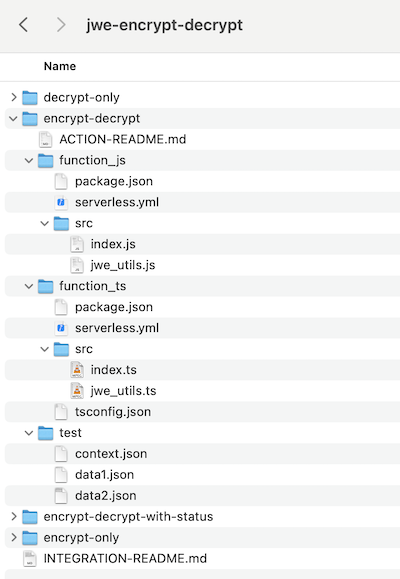
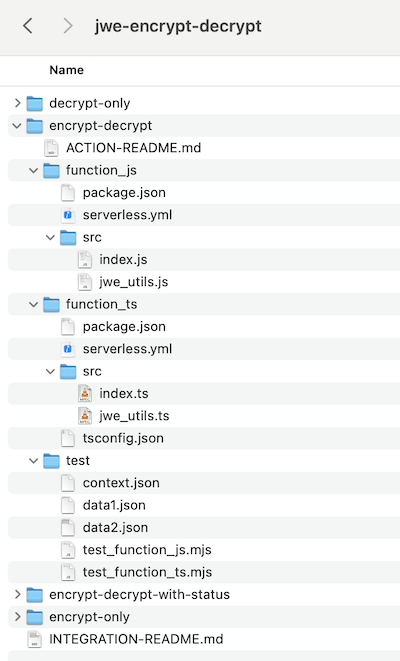
Genesys Functions: Alternative to Serverless Framework

diff --git a/source/2025-01-14-genesys-functions/index.md b/source/2025-01-14-genesys-functions/index.md
@@ -187,6 +187,8 @@ All functions must conform to the AWS Lambda interface requirements for serverle
 
 The resulting function will be a set of source files in a directory structure along with dependencies. The function file directory must be packaged into a ZIP file that will allow it to be deployed and executed. The package will have a module and function that is the handler for the invocation.
 
+The AWS Lambda's Developer Guide provides additional information on [Creating a .zip deployment package with dependencies](https://docs.aws.amazon.com/lambda/latest/dg/nodejs-package.html#nodejs-package-create-dependencies).
+
 ### Function Restrictions
 
 **The implementation of the environment used to execute the functions impose restriction on the operation of the functions.**
@@ -556,28 +558,79 @@ Let's now have a look at the function code we will upload for this Data Action, 
 Developping your function code in javascript or in typescript, is up to you. Your preference.
 
 #### Example package.json
-In order to package the code into a zip file that fits AWS lambda needs, we are leveraging the [Serverless Framework (3rd party)](https://www.serverless.com/framework/docs/providers/aws/guide/intro/).  
-It is included as a dev dependency in the package.json file. If you prefer to install Serverless Framework globally, it is of course also possible. Again, your preference.
+The package.json file contains the definition of the dependencies and devDependencies necessary to build and to run the project's example code.
+
+Note that **devDependencies (node modules) do not need to be included in the function's zip package that will be uploaded to Genesys Cloud**. They are not necessary at runtime (of the AWS Lambda). You can use `npm install --omit=dev` before creating the zip package of the function, to only keep node modules defined as dependencies.
+
+Similarly, when working with a typescript project, you only need to upload the built javascript source code. The `build` script alias included in the package.json file will transpile typescript to javascript using `tsc`.
+
+#### Method 1 - Build your code, Create Package and Test with zip command
+The AWS Lambda's Developer Guide provides additional information on [Creating a .zip deployment package with dependencies](https://docs.aws.amazon.com/lambda/latest/dg/nodejs-package.html#nodejs-package-create-dependencies).
+
+The javascript source and the necessary node modules (dependencies) will be packaged using the `zip` command (that should be available on your Linux, Mac or Windows computer).
+* `zip -r function-gc-active-conversations-action.zip src/ node_modules/`
+* `npm install --omit=dev && zip -r function-gc-active-conversations-action.zip src/ node_modules/ && npm install` (`npm install --omit=dev` is run first to only keep dependencies and to remove devDependencies)
+
+In order to test the function handler with data, some javascript files have been added in the different `test` subdirectories to facilitate this testing (test_function_js.mjs, test_function_ts.mjs, ...).
+* `node ../test/test_function_js.mjs ../test/data1.json ../test/context.json`
+* `node ../test/test_function_ts.mjs ../test/data1.json ../test/context.json`
+
+_**Example Steps**_
+
+Steps for *function_js*:
+* Make sure that you are using NodeJS 20 runtime (the code was built with this runtime version)
+* Navigate to the *function_js* directory
+* Type: `npm install`
+* To package the code and create the zip, type: `npm run zip` or `npm run zipnodev`
+Both aliases will invoke the zip command to package the source directory and the node modules directory (`zip -r function-gc-active-conversations-action.zip src/ node_modules/`).  
+If you have devDependencies defined in your package.json file, you can use the `npm run zipnodev`. This will invoke `npm install --omit=dev` again prior to the `zip` command (to only keep node module dependencies).
+
+Steps for *function_ts*:
+* Make sure that you are using NodeJS 20 runtime (the code was built with this runtime version)
+* Navigate to the *function_ts* directory
+* Type: `npm install`
+* To build: `npm run build`
+* To package the code and create the zip, type: `npm run zip` or `npm run zipnodev`
+Both aliases will invoke the zip command to package the source directory and the node modules directory (`zip -r function-gc-active-conversations-action.zip dist/ node_modules/`).  
+If you have devDependencies defined in your package.json file, you can use the `npm run zipnodev`. This will invoke `npm install --omit=dev` again prior to the `zip` command (to only keep node module dependencies).
+
+This will create a zip and will store it in the project's directory. This is the file you will need to upload in Genesys Cloud.
+
+_**Testing function locally**_
+
+In order to test the function handler with sample data, some javascript files have been added in the different `test` subdirectories to facilitate this testing (test_function_js.mjs, test_function_ts.mjs, ...).  
+Testing locally will be much easier to troubleshoot errors in the function code.
+
+The test javascript files take two input parameters: a sample **Event** and a sample **Context** for the function (you can have a look at the package.json to see how the command is invoked).  
+The Json files which are included in the `test` subdirectory contain sample values for **Context** and **Event**.  
+I have included commands in the package.json so you can test your function with the *context.json* and *data.json*.
+
+With the current JWE Encrypt and Decrypt example, I have defined "aliases" in the package.json so you can run:
+* To Encrypt: `npm run localtest1` (an alias to invoke: *node ../test/test_function_js.mjs ../test/data1.json ../test/context.json*)
+* To Decrypt: `npm run localtest2` (an alias to invoke: *node ../test/test_function_js.mjs ../test/data2.json ../test/context.json*)
+
+#### Method 2 - Build your code, Create Package and Test with Serverless Framework
+In order to package the code into a zip file that fits AWS lambda needs, you can also leverage the [Serverless Framework (3rd party)](https://www.serverless.com/framework/docs/providers/aws/guide/intro/).  
+
+:::{"alert":"warning","autoCollapse":false}
+The Serverless Framework CLI V3 did not require any account or subscription but it is now EOL (End of Life). [The Serverless Framework CLI V.4+ is free, except for organizations earning over $2 million annually, which require a paid subscription](https://www.serverless.com/pricing).  
+If you are still using v3 of the Serverless Framework, or if you have a free or a paid subscription to use v4, you can follow the steps below.
+:::
+
+You can install it as a dev dependency in the package.json file or you install Serverless Framework globally. Again, your preference.
 
 A couple of npm commands are also included in the package.json file, to create the package (the zip) or to test your code.  
 `sls package` and `sls invoke local` are commands related to the Serverless Framework.
 
-In package.json:
-```json
-  "devDependencies": {
-    "serverless": "^3.39.0"
-  }
-```
-
 Installing Serverless globally:
-`npm install -g serverless@3`
+`npm install -g serverless`
 
 :::{"alert":"info","autoCollapse":false}
 Don't be worried about the Serverless Framework if you are not familiar with it. We are only using it as a tool to create the zip package, that AWS and the Genesys Cloud Functions expect. If you already know how to create such zip for AWS Lambda, without using the Serverless Framework, you can continue to use your preferred method.  
 The Serverless Framework is not used inside the Genesys Cloud Function code. This is why you do not need to know a lot about it - only the fact that `sls package` and `sls invoke local` are commands you can use to create the package or test the function locally (given that you have created a serverless.yml file which is leveraged by the Serverless Framework).
 :::
 
-#### Example serverless.yml
+_**Example serverless.yml**_
 The serverless.yml file is necessary for the Serverless Framework package process.  
 These settings are not leveraged on Genesys Cloud side (you will define them later through the Genesys Desktop Admin UI) but are necessary to create the package. They are also of use when testing the function code locally using the Serverless Framework (`sls invoke local`).
 
@@ -601,13 +654,13 @@ functions:
     runtime: nodejs20.x
 ```
 
-#### Example Steps
+_**Example Steps**_
 
 Steps for *function_js*:
 * Make sure that you are using NodeJS 20 runtime (the code was built with this runtime version)
 * Navigate to the *function_js* directory
 * Type: `npm install`
-* To package the code and create the zip, type: `npm run package`
+* To package the code and create the zip, type: `npm run slspackage`
 This will invoke `sls package`as defined in my package.json file.
 
 Steps for *function_ts*:
@@ -615,13 +668,13 @@ Steps for *function_ts*:
 * Navigate to the *function_ts* directory
 * Type: `npm install`
 * To build: `npm run build`
-* To package the code and create the zip, type: `npm run package`
+* To package the code and create the zip, type: `npm run slspackage`
 This will invoke `sls package`as defined in my package.json file.
 
 Serverless Framework will create a zip and will store it in a `.serverless` subdirectory. This is the file you will need to upload in Genesys Cloud.  
 On MAC ".serverless" might will be a hidden directory, use "ls -al" to see in terminal, or (shift-cmd-period) to see in finder.
 
-#### Testing function locally with Serverless Framework
+_**Testing function locally with Serverless Framework**_
 
 The Serverless Framework has a `sls invoke local` command, allowing to test your function locally (on your computer), before you create the package and upload it. Testing locally will be much easier to troubleshoot errors in the function code.
 
@@ -630,8 +683,8 @@ The Json files which are included in the `test` subdirectory contain sample valu
 I have included commands in the package.json so you can test your function with the *context.json* and *data.json*.
 
 With the current JWE Encrypt and Decrypt example, I have defined "aliases" in the package.json so you can run:
-* To Encrypt: `npm run localtest1` (an alias to invoke: *sls invoke local --function echo --path ../test/data1.json --contextPath ../test/context.json*)
-* To Decrypt: `npm run localtest2` (an alias to invoke: *sls invoke local --function echo --path ../test/data2.json --contextPath ../test/context.json*)
+* To Encrypt: `npm run slslocaltest1` (an alias to invoke: *sls invoke local --function echo --path ../test/data1.json --contextPath ../test/context.json*)
+* To Decrypt: `npm run slslocaltest2` (an alias to invoke: *sls invoke local --function echo --path ../test/data2.json --contextPath ../test/context.json*)
 
 ### Explaining example
 
@@ -722,7 +775,7 @@ Set the Data Action timeout: 15 seconds is the maximum allowed (at the time of t
 
 ### Upload the function zip
 
-You can then upload the zip file which has been created using the Serverless Framework package command (`sls package` - zip file created in ".serverless" project's subdirectory).
+You can then upload the zip file which has been created using the zip command (`zip -r` - zip file created in project's directory) or the Serverless Framework package command (`sls package` - zip file created in ".serverless" project's subdirectory).
 
 *Click on the Upload zip button (Function Configuration) and select the function's zip package you have just created.*
 
@@ -828,5 +881,6 @@ Enjoy!!!
 1. [API Explorer](/devapps/api-explorer-standalone)
 2. [Genesys Cloud SDK](/devapps/sdk/)
 3. [AWS Lambda Function Handler in Node.js](https://docs.aws.amazon.com/lambda/latest/dg/nodejs-handler.html)
-4. [Serverless Framework Intro](https://www.serverless.com/framework/docs/providers/aws/guide/intro/)
-5. [Serverless CLI reference](https://www.serverless.com/framework/docs/providers/aws/cli-reference)
+4. [AWS Lambda Deployment Package in Node.js](https://docs.aws.amazon.com/lambda/latest/dg/nodejs-package.html#nodejs-package-create-dependencies)
+5. [Serverless Framework Intro](https://www.serverless.com/framework/docs/providers/aws/guide/intro/)
+6. [Serverless CLI reference](https://www.serverless.com/framework/docs/providers/aws/cli-reference)
